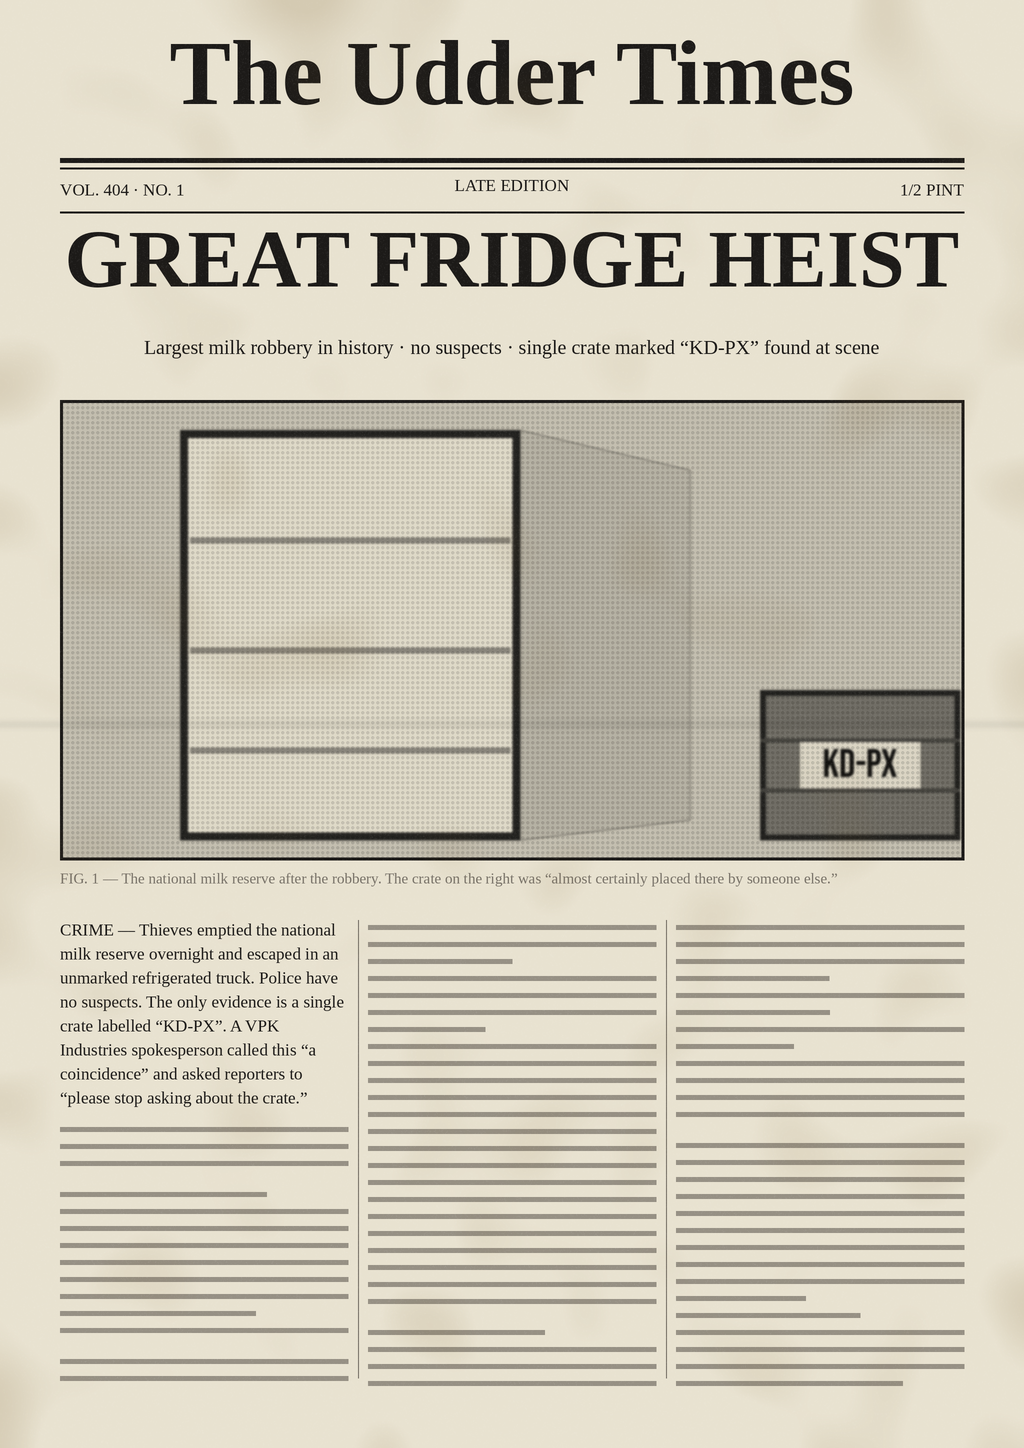
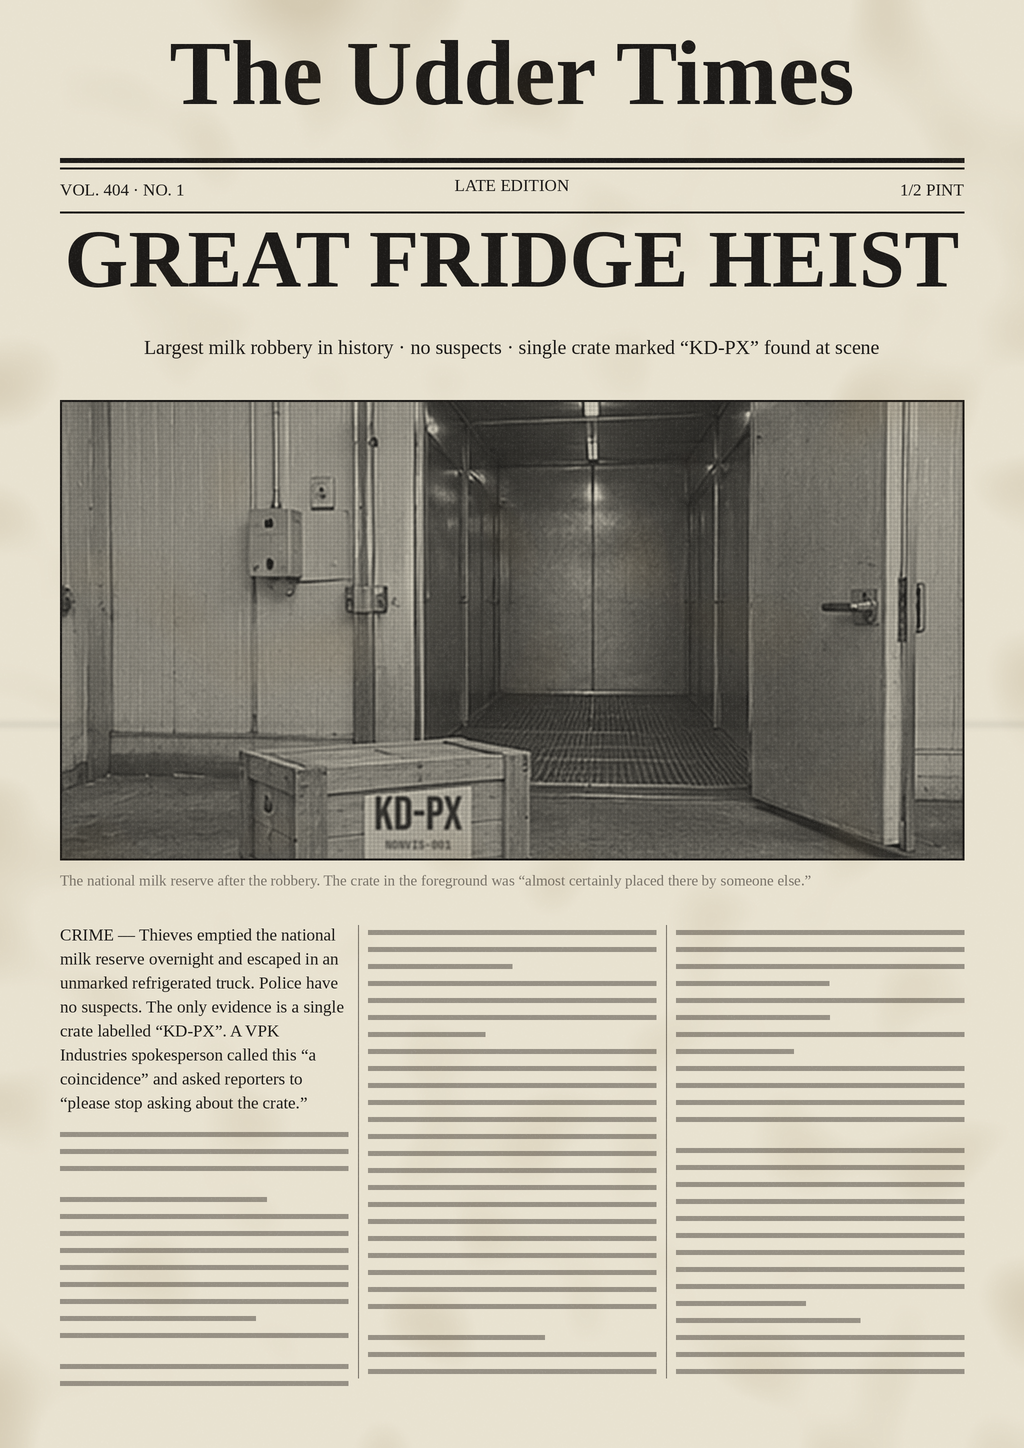
docs: rebuild the milk crisis newspapers with photos, add five more
Claude-Session: https://claude.ai/code/session_01TPtXe8YEjXWuXNmFgmXabW

diff --git a/docs/vpk-industries.md b/docs/vpk-industries.md
@@ -229,14 +229,19 @@ Ideas for props and textures:
 - a framed one-pint banknote on the wall: *"In Cow We Trust"*,
 - a poster: *"Report all milk hoarding."*
 
-Newspaper front pages from the crisis (1024×1448, in [`docs/images/vpk-industries/`](./images/vpk-industries/)):
+Newspaper front pages from the crisis (1024×1448, in [`docs/images/vpk-industries/`](./images/vpk-industries/)). The photos were generated with an image AI from a single prompt as a 3×3 grid, then cut apart and printed onto the pages with a newspaper halftone.
 
 | File | Front page |
 | :--- | :--- |
-| `newspaper_daily-pint_milk-overtakes-gold_1024x1448.png` | *The Daily Pint*: "Milk overtakes gold", a chart of milk against gold |
-| `newspaper_dairy-herald_soft-drinks-go-flat_1024x1448.png` | *The Dairy Herald*: "Soft drinks go flat", the last bottle of cola |
+| `newspaper_daily-pint_milk-overtakes-gold_1024x1448.png` | *The Daily Pint*: "Milk overtakes gold", a glass of milk on a stack of gold bars |
+| `newspaper_dairy-herald_soft-drinks-go-flat_1024x1448.png` | *The Dairy Herald*: "Soft drinks go flat", empty shelves, shoppers queuing for dairy |
 | `newspaper_udder-times_great-fridge-heist_1024x1448.png` | *The Udder Times*: "Great fridge heist", the empty milk reserve and a KD-PX crate |
-| `newspaper_evening-moo_long-may-she-reign_1024x1448.png` | *The Evening Moo*: "Long may she reign", the coronation of Bessie IV; side box: LactoKd™ recalled |
+| `newspaper_evening-moo_long-may-she-reign_1024x1448.png` | *The Evening Moo*: "Long may she reign", Bessie IV crowned; side box: LactoKd™ recalled |
+| `newspaper_daily-pint_lactose-accords-signed_1024x1448.png` | *The Daily Pint*: "Lactose Accords signed", diplomats and their cows |
+| `newspaper_udder-times_oat-milk-rebellion_1024x1448.png` | *The Udder Times*: "Oat milk rebellion ends" |
+| `newspaper_dairy-herald_bovine-reserve-raises-rate_1024x1448.png` | *The Dairy Herald*: "Rate raised to 4% cream", the Bovine Reserve press conference |
+| `newspaper_evening-moo_milk-rationed_1024x1448.png` | *The Evening Moo*: "Milk rationed", one glass per person per day |
+| `newspaper_daily-pint_vpk-denies-everything_1024x1448.png` | *The Daily Pint*: "VPK denies everything", a spokesperson with a glass of milk on the podium |
 
 ### What comes next
 
